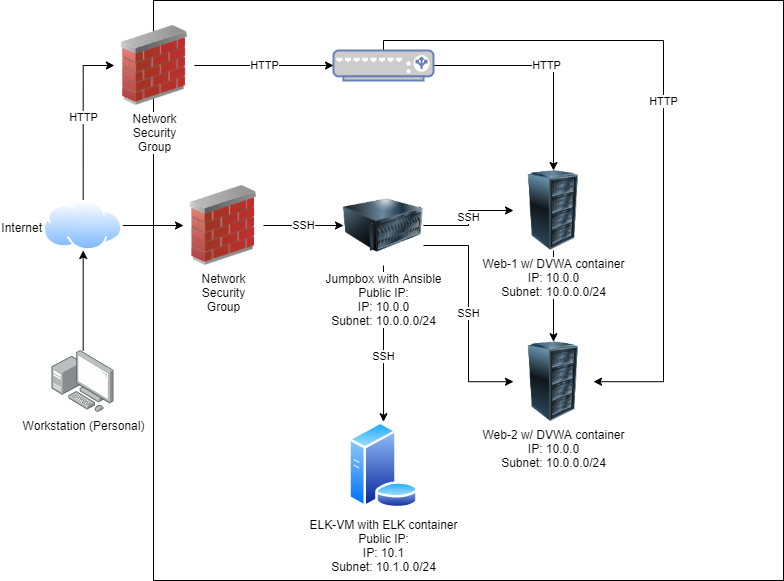
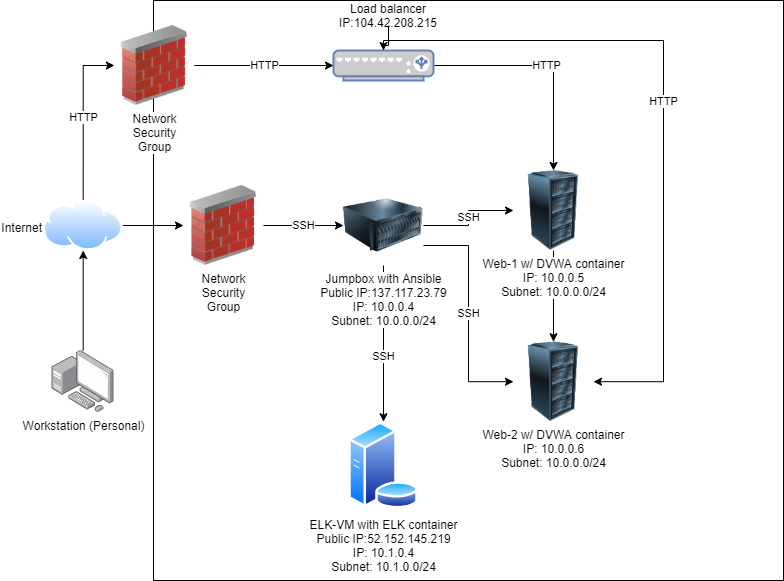
update

diff --git a/README.md b/README.md
@@ -2,11 +2,11 @@
 
 The files in this repository were used to configure the network depicted below.
 
-![TODO: Update the path with the name of your diagram](Diagrams/Cloud_Diagram.png)
+![TODO: Update the path with the name of your diagram](Diagram/cloud_diagram.png)
 
-These files have been tested and used to generate a live ELK deployment on Azure. They can be used to either recreate the entire deployment pictured above. Alternatively, select portions of the _____ file may be used to install only certain pieces of it, such as Filebeat.
+These files have been tested and used to generate a live ELK deployment on Azure. They can be used to either recreate the entire deployment pictured above. Alternatively, select portions of the `install-elk.yml` file may be used to install only certain pieces of it, such as Filebeat.
 
-  - _TODO: Enter the playbook file._
+  - _[Install-Elk Playbook](Ansible/install-elk.yml)._
 
 This document contains the following details:
 - Description of the Topologu
@@ -21,76 +21,95 @@ This document contains the following details:
 
 The main purpose of this network is to expose a load-balanced and monitored instance of DVWA, the D*mn Vulnerable Web Application.
 
-Load balancing ensures that the application will be highly _____, in addition to restricting _____ to the network.
-- _TODO: What aspect of security do load balancers protect? What is the advantage of a jump box?_
+Load balancing ensures that the application will be highly available, in addition to restricting access to the network.
+- _What aspect of security do load balancers protect? What is the advantage of a jump box?_
+  - The security aspect of load balancers help mitigate against denial of service attacks. The advantage of a jumpbox on the other hand limits the amount of attack vectors that can access our internal network. 
 
-Integrating an ELK server allows users to easily monitor the vulnerable VMs for changes to the _____ and system _____.
+Integrating an ELK server allows users to easily monitor the vulnerable VMs for changes to the configuration files and system logs.
 - _TODO: What does Filebeat watch for?_
+  - Filebeat watches for sudo commands, SSH logins, and system logs 
 - _TODO: What does Metricbeat record?_
+  - Metricbeat watches for CPU usage, RAM, and network usage.
 
 The configuration details of each machine may be found below.
-_Note: Use the [Markdown Table Generator](http://www.tablesgenerator.com/markdown_tables) to add/remove values from the table_.
 
 | Name     | Function | IP Address | Operating System |
 |----------|----------|------------|------------------|
 | Jump Box | Gateway  | 10.0.0.1   | Linux            |
-| TODO     |          |            |                  |
-| TODO     |          |            |                  |
-| TODO     |          |            |                  |
+| Web-1     | Webserver          |            | Linux                 |
+| Web-2     | Webserver         |            |                  |
+| ELK-VM    | SIEM (System Information Event Manager)  |            |                  |
 
 ### Access Policies
 
 The machines on the internal network are not exposed to the public Internet. 
 
-Only the _____ machine can accept connections from the Internet. Access to this machine is only allowed from the following IP addresses:
-- _TODO: Add whitelisted IP addresses_
+Only the `Jumpbox` machine can accept connections from the Internet. Access to this machine is only allowed from the following IP addresses:
+- _The only IP address that can access the Jumpbox is my personal IP address because the firewall settings have been set to only my IP address being able to access to the Jumpbox. This helps decrease the attack vector since the only way to access the internal network is through the Jumpbox._
 
-Machines within the network can only be accessed by _____.
-- _TODO: Which machine did you allow to access your ELK VM? What was its IP address?_
+Machines within the network can only be accessed by `Ansible Container`.
+- _Which machine did you allow to access your ELK VM? What was its IP address?_
+  - The `Ansible Container` is the only one that can SSH into the ELK VM and its IP address is ___
 
 A summary of the access policies in place can be found in the table below.
 
 | Name     | Publicly Accessible | Allowed IP Addresses |
 |----------|---------------------|----------------------|
-| Jump Box | Yes/No              | 10.0.0.1 10.0.0.2    |
-|          |                     |                      |
-|          |                     |                      |
+| Jump Box | Yes              | My IP Address   |
+| Web-1  | w/ HTTP (Yes) & w/ SSH (No)                   |                      |
+| Web-2          | w/ HTTP (Yes) & w/ SSH (No)                     |                      |
+| Elk-VM         | w/ HTTP (Yes) & w/ SSH (No)                     |                      |
 
 ### Elk Configuration
 
 Ansible was used to automate configuration of the ELK machine. No configuration was performed manually, which is advantageous because...
-- _TODO: What is the main advantage of automating configuration with Ansible?_
+- _What is the main advantage of automating configuration with Ansible?_
+  - This allows us to save time and prevent human errors when trying to configure multiple machines within the network. This also allows us to perform version control on certain patches we would like to apply in the near future. 
 
 The playbook implements the following tasks:
 - _TODO: In 3-5 bullets, explain the steps of the ELK installation play. E.g., install Docker; download image; etc._
-- ...
-- ...
+- 1. Install docker.io
+- 2. Install python3-pip
+- 3. Download and launch an ELK container
+- 4. Enable the service for docker on boot.
 
 The following screenshot displays the result of running `docker ps` after successfully configuring the ELK instance.
 
-![TODO: Update the path with the name of your screenshot of docker ps output](Images/docker_ps_output.png)
+![Docker ps output](Diagram/docker.png)
 
 ### Target Machines & Beats
 This ELK server is configured to monitor the following machines:
-- _TODO: List the IP addresses of the machines you are monitoring_
+- _List the IP addresses of the machines you are monitoring_
+  -  Web-1:
+  -  Web-2:
 
 We have installed the following Beats on these machines:
-- _TODO: Specify which Beats you successfully installed_
+- _Specify which Beats you successfully installed_
+  - Filebeat
 
 These Beats allow us to collect the following information from each machine:
-- _TODO: In 1-2 sentences, explain what kind of data each beat collects, and provide 1 example of what you expect to see. E.g., `Winlogbeat` collects Windows logs, which we use to track user logon events, etc._
+- _In 1-2 sentences, explain what kind of data each beat collects, and provide 1 example of what you expect to see. E.g., `Winlogbeat` collects Windows logs, which we use to track user logon events, etc._
+  - Filebeat will collect SSH logins, system logs, and sudo commands 
 
 ### Using the Playbook
 In order to use the playbook, you will need to have an Ansible control node already configured. Assuming you have such a control node provisioned: 
 
 SSH into the control node and follow the steps below:
-- Copy the _____ file to _____.
-- Update the _____ file to include...
-- Run the playbook, and navigate to ____ to check that the installation worked as expected.
+- Copy the `/etc/ansible/filebeat-config.yml` file to `/etc/filebeat/filebeat.yml`.
+- Update the `/etc/filebeat/filebeat.yml` file to include...
+ ```output.elasticsearch:
+  hosts: ["localhost:9600"]
+  username: "elastic"
+  password: "password"
+setup.kibana:
+  host: "localhost:5601"
+```
+- Run the playbook, and navigate to `/etc/filebeat` to check that the installation worked as expected.
 
-_TODO: Answer the following questions to fill in the blanks:_
+_Answer the following questions to fill in the blanks:_
 - _Which file is the playbook? Where do you copy it?_
+  - Copy the `/etc/ansible/filebeat-config.yml` file to `/etc/filebeat/filebeat.yml`.
 - _Which file do you update to make Ansible run the playbook on a specific machine? How do I specify which machine to install the ELK server on versus which to install Filebeat on?_
-- _Which URL do you navigate to in order to check that the ELK server is running?
-
-_As a **Bonus**, provide the specific commands the user will need to run to download the playbook, update the files, etc._
+  - We will update the `hosts` file in order to specific which machine the playbook should run on. To specific which machine to install certain items on, we would need to specify the groups in the `hosts`.
+- _Which URL do you navigate to in order to check that the ELK server is running_?
+   - http://137.135.69.18:5601/
